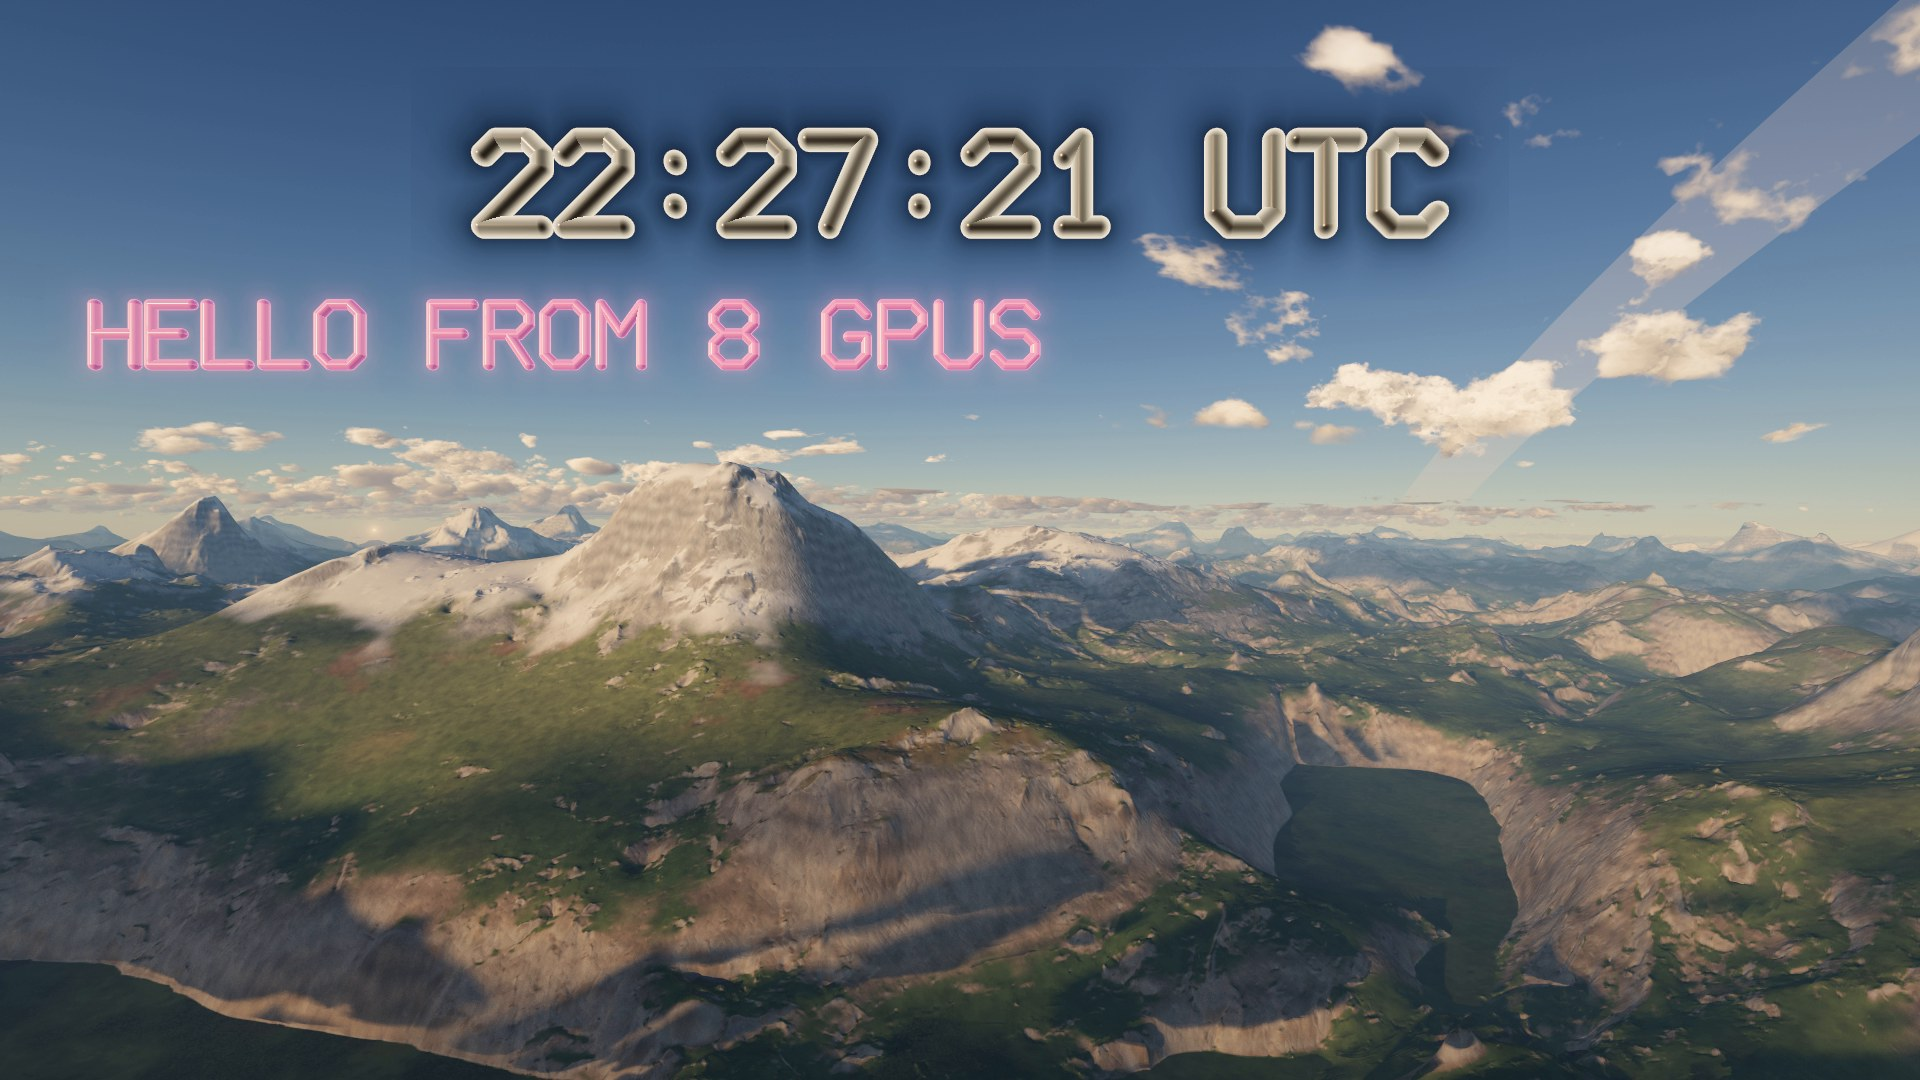
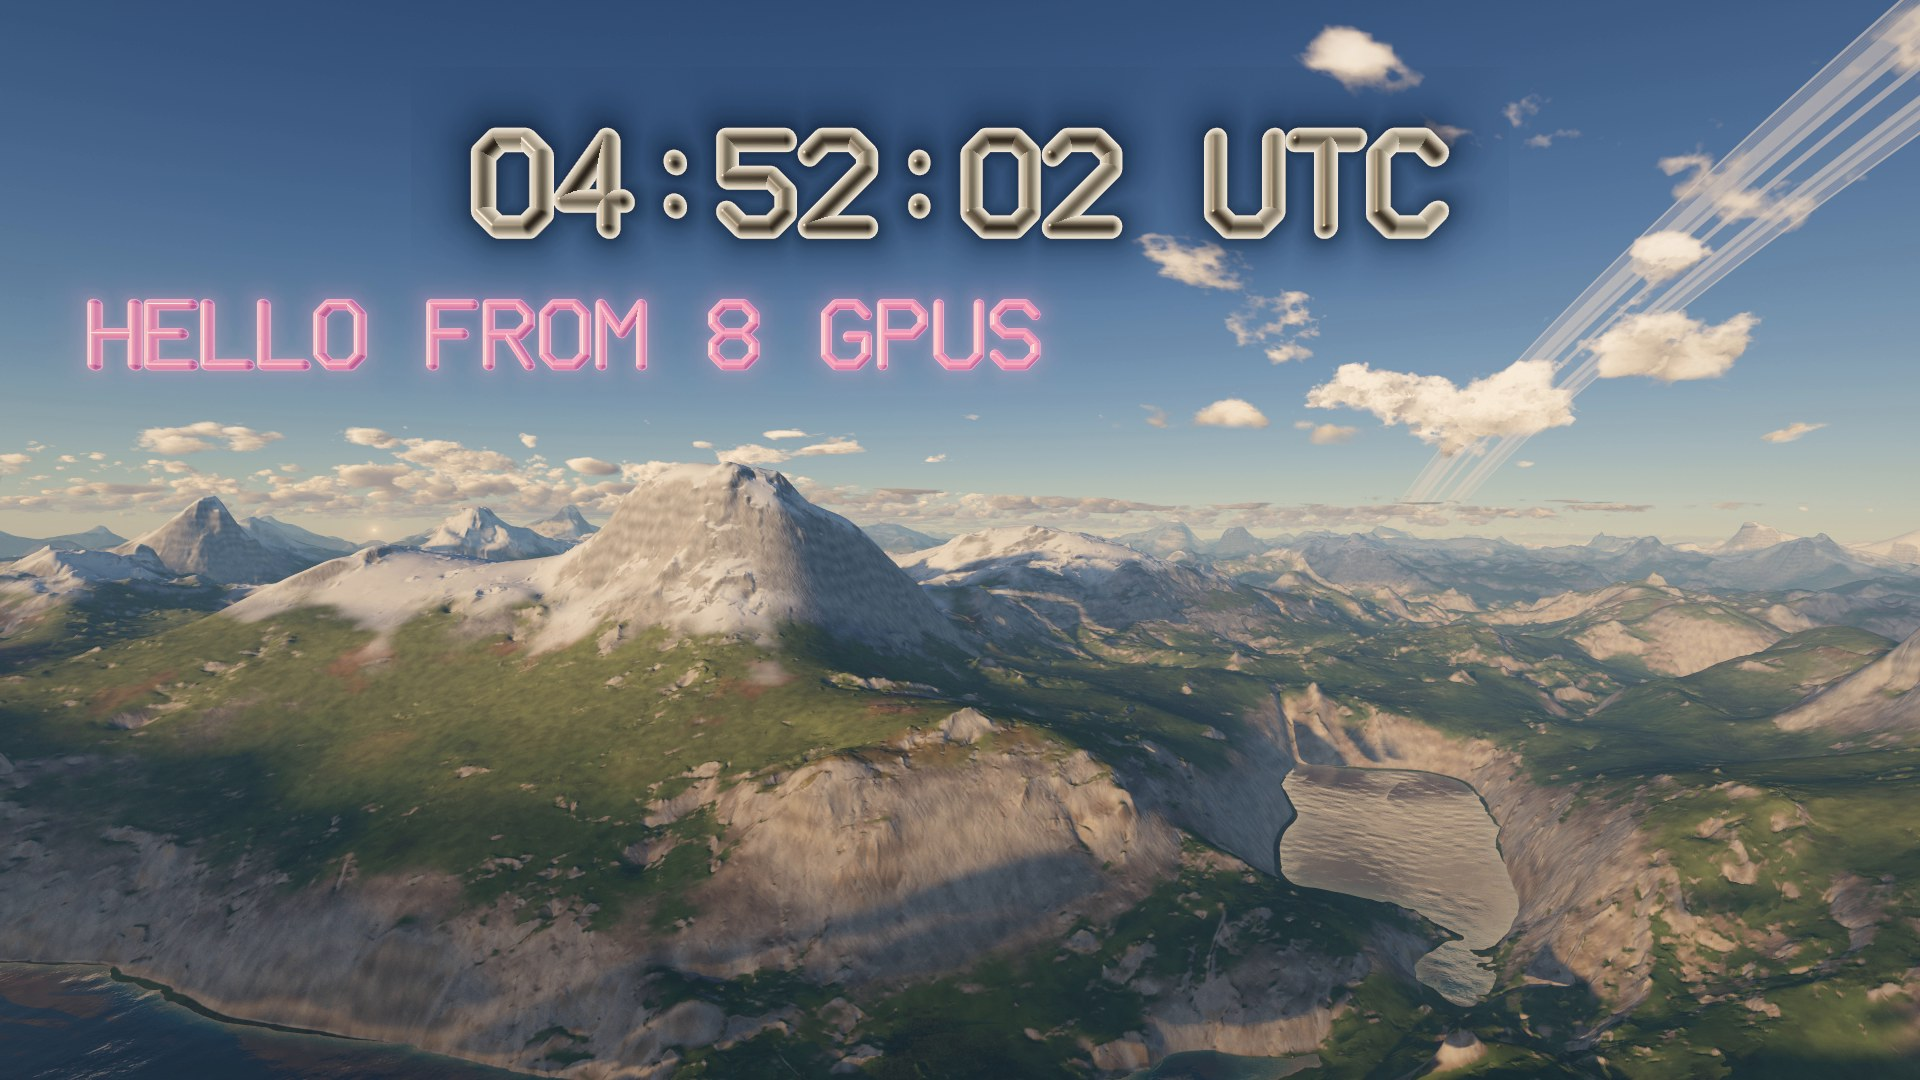
fleet/renderer: round 6 shots and measurements from eight T4 VMs
From an image built at d4a38a85 on a g4dn.metal from the fleet host AMI:
- seam test in VMs on three GPUs, identical hashes; a moving frame stitched
  unencoded from eight VMs equals the whole frame in all 2,073,600 pixels,
  with every pixel drawing and with stride-4 frames
- fps per height: wall tiles 30.0 at every size; 720p whole 25.4 and the
  detail view 27.9 (render plus encode at the slot's edge)
- TLS per stream: 8 x 22 Mbit/s add 5.4% of one core (0.67% each) and
  0.9 ms at the median; 8 x 0.83 Mbit/s add 0.3%
- shots: golden hour with the lake, 80 km, moving, the fast move, the wall,
  the /still poster, raw and decoded

tools/measure.py takes BUDGET from the environment as the scene's budget.

diff --git a/fleet/renderer/tools/measure.py b/fleet/renderer/tools/measure.py
@@ -7,6 +7,7 @@ expensive case), subscribes at each height in turn, and prints one CSV row per
 height from what the client received and what /health reports.
 """
 import json
+import os
 import sys
 import time
 
@@ -27,8 +28,11 @@ cam = [{"t": float(i * 20), "pos": [-12 - 2.0 * i, 0.4 + 0.25 * i, -8 - 6.0 * i]
         "look": [-40 - 2.0 * i, 1.2, -80 - 6.0 * i], "fov_deg": 60.0} for i in range(400)]
 print("inner_height,inner_width,stream,rect,frames,client_fps,spp,checkerboard,render_ms,encode_ms,gpu_util_pct,power_w")
 for h, rect, kind in rows:
-    fc.post_scene(host, port, {"epoch_unix_ms": now, "rect": rect, "image_aspect": 16 / 9, "camera": cam,
-                               "time_of_day": 0.3, "words": [], "lights": []})
+    scene = {"epoch_unix_ms": now, "rect": rect, "image_aspect": 16 / 9, "camera": cam,
+             "time_of_day": 0.3, "words": [], "lights": []}
+    if os.environ.get("BUDGET"):  # the scene's per-frame budget (pixel-samples) instead of the renderer's
+        scene["budget"] = int(os.environ["BUDGET"])
+    fc.post_scene(host, port, scene)
     st = fc.Stream(host, port, h)
     hdr, got, t0 = None, [], None
     samples = []

diff --git a/fleet/renderer/README.md b/fleet/renderer/README.md
@@ -141,12 +141,10 @@ python3 tools/rawmosaic.py out 4 2 540 tools/scene-move.json HOST1:8080 ...   # 
 python3 tools/seam_metric.py out.png 4 2              # seam ratio at every tile boundary
 ```
 
-## Measured (2026-10-22, g4dn.metal, one T4 per fcvm VM, driver 580.196.07)
+## Measured (2026-10-23, g4dn.metal from the fleet host AMI, one T4 per fcvm VM)
 
-The fps table and the seam numbers are from round 5; the stream-quality and
-subscriber numbers are from round 4. Round 5's scene costs 10% more per
-sample than round 4's (`fleet-renderer bench --h 720`, one sample per pixel,
-on the host: 29.1 ms before, 31.9 ms after; the low sun alone is about 1 ms).
+The fps table, seams, shots and TLS numbers are from round 6; the
+stream-quality and subscriber numbers are from round 4.
 
 Moving camera, `tools/measure.py`, 8 s per row after 2 s to settle, default
 budget (250,000 pixel-samples per frame over the drawn region), `q=std`; wall
@@ -156,13 +154,25 @@ the checkerboard stride (1: every pixel draws).
 
 | inner size | stream (with overlap) | fps | samples/pixel/frame | checker | render ms | encode ms |
 |---|---|---|---|---|---|---|
-| 146 x 146 (asked 136) | 178 x 178 | 31.5 | 5 | 1 | 12.4 | 0.53 |
-| 180 x 180 | 212 x 212 | 30.0 | 3 | 1 | 10.7 | 0.74 |
-| 240 x 240 | 272 x 272 | 30.0 | 2 | 1 | 10.7 | 0.74 |
-| 360 x 360 | 392 x 392 | 30.0 | 1 | 1 | 9.4 | 1.18 |
-| 1080 x 1080 detail view | 1112 x 1112 | 30.0 | 1 | 4 | 26.9 | 4.06 |
-| 1280 x 720 whole image | 1280 x 720 | 29.9 | 1 | 4 | 29.5 | 2.52 |
-| 1920 x 1080 whole image | 1920 x 1080 | 12.5 | 1 | 4 | 61.3 | 4.05 |
+| 146 x 146 (asked 136) | 178 x 178 | 30.2 | 5 | 1 | 12.8 | 0.59 |
+| 180 x 180 | 212 x 212 | 30.0 | 3 | 1 | 11.0 | 0.73 |
+| 240 x 240 | 272 x 272 | 30.0 | 2 | 1 | 10.8 | 0.79 |
+| 360 x 360 | 392 x 392 | 30.0 | 1 | 1 | 9.5 | 1.16 |
+| 1080 x 1080 detail view | 1112 x 1112 | 27.9 | 1 | 4 | 27.8 | 4.15 |
+| 1280 x 720 whole image | 1280 x 720 | 25.4 | 1 | 4 | 30.1 | 2.58 |
+| 1920 x 1080 whole image | 1920 x 1080 | 12.2 | 1 | 4 | 62.4 | 4.45 |
+
+The 720p whole image and the detail view sit at the slot's edge: render plus
+encode is 31 to 33 ms of the 33.3 ms slot, and a frame over it costs a slot.
+A second run in one VM gave 720p at 23.1 fps (29.6 ms) and the detail view
+at 30.0 (26.1 ms). Round 5 measured 29.5 and 26.9 ms on another box. A lower
+`budget` does not help these two: they already draw a quarter of the pixels
+with one sample, the floor. Per frame, the trace is nearly all of it (720p,
+moving, per-kernel events: trace 31 ms; sky 0.1, fill 0.2, resolve 0.2,
+finish 0.4); within the trace the cloud march took 5.3 ms, the bounce ray
+2.7 and the sun's shadow march 2.6 before both marches were shortened (20
+bounce steps, round 4's shadow octaves), which took that frame's trace from
+30.9 to 29.5 ms; the table above is after that change.
 
 Stream quality at 180 px tiles (4 x 2 grid, 160 x 180 inner, 192 x 212
 delivered; one moving frame unencoded and as the eight streams decode it,
@@ -186,24 +196,39 @@ the GPU; 307 to 330 ms with `nvidia-persistenced` running in the guest.
 Relaunch (round 2, cache-hit `fcvm podman run`): 6.15 to 6.28 s from the
 command to the first frame at the client.
 
-Seams (round 5): the seam test passes in VMs on three different T4s with the
-same hashes (`fnv64 1fee6f746d08e12d`, `b6c76adc254cc36b`, `9785fc0b8858b93b`).
+Seams (round 6): the seam test passes in VMs on three different T4s with the
+same hashes (`fnv64 d29502859cc7552a`, `a6dabe4b727ac567`, `19c1b42fb6c2c616`).
 A moving frame captured unencoded from eight VMs (`tools/rawmosaic.py`)
 equals the same frame drawn whole in another VM in all 2,073,600 pixels, with
 every pixel drawing and with stride-4 checkerboard frames. At 540 px tiles its
-seam ratio is 0.72 to 3.72 unencoded and 0.82 to 3.81 as the eight `std`
-streams decode it, cropped. The 3.72 is the clock: it is centred, so a digit's
-stroke lies on the middle boundary in the unencoded frame too. The largest
-increase from encoding, 1.00 to 1.76, is at a boundary in flat, dark forest,
-where the metric divides by a near-zero gradient; a 2x crop shows no line.
-Golden-hour hold 0.93 to 1.41, high-altitude hold 0.63 to 1.16 (decoded).
+seam ratio is 0.75 to 1.26 unencoded and 0.81 to 1.35 as the eight `std`
+streams decode it, cropped (largest increase from encoding 0.33, at a boundary
+in flat forest). In the holds the centred clock puts a digit's edge on the
+middle boundary, which reads 6.3 (golden hour) and 7.6 (80 km) there and 0.61
+to 1.41 everywhere else; a 4x crop shows the digit, no line.
+
+TLS (round 6, one renderer VM, `tools/tlscost.py`, 15 s per arm, camera
+moving, the same streams over `ws://` and then `wss://`; the renderer's CPU
+from `/health cpu_s`, delay = arrival minus the frame's slot time):
+
+| streams | per stream | renderer CPU, ws -> wss (% of one core) | added per stream | delay p50, ws -> wss |
+|---|---|---|---|---|
+| 8 x `hi` 540 px | 21.7 Mbit/s | 38.6 -> 44.0 | 0.67% | 15.4 -> 16.3 ms |
+| 8 x `std` 180 px | 0.83 Mbit/s | 40.2 -> 40.5 | 0.04% | 14.2 -> 14.1 ms |
+| 1 x `hi` 540 px | 21.7 Mbit/s | 39.3 -> 41.2 | 1.9% | 15.5 -> 16.0 ms |
+
+A TLS connection's first request took 3.2 ms against 0.5 ms plain (one
+stream, handshake included). A WSS stream carried on across a certificate
+replacement (450 frames, 352 after the swap, largest gap 42 ms) and new
+handshakes got the new certificate; a TLS 1.1 client is refused.
 
 `GET /still?h=540` from the eight VMs, 12 s after the first request with no
-stream running, in the 80 km hold: 360 to 381 samples per pixel, stitched in
+stream running, in the 80 km hold: 359 to 382 samples per pixel, stitched in
 `shots/still-high-8gpu.jpg`.
 
 Shots stitched from eight VMs on eight GPUs are in `shots/`:
 `mosaic-hold-8gpu.jpg` (golden hour, held), `mosaic-high-8gpu.jpg` (80 km
-up, held), `mosaic-move-8gpu.jpg` (moving), the two holds at 180 px tiles,
+up, held), `mosaic-move-8gpu.jpg` (moving), `mosaic-fast-8gpu.jpg`
+(`tools/scene-fast.json`, 1.2 km/s in the cloud layer), the two holds at 180 px tiles,
 `raw-move-8gpu.jpg` and `decoded-move-8gpu.jpg` (one moving frame, unencoded
 and decoded).
